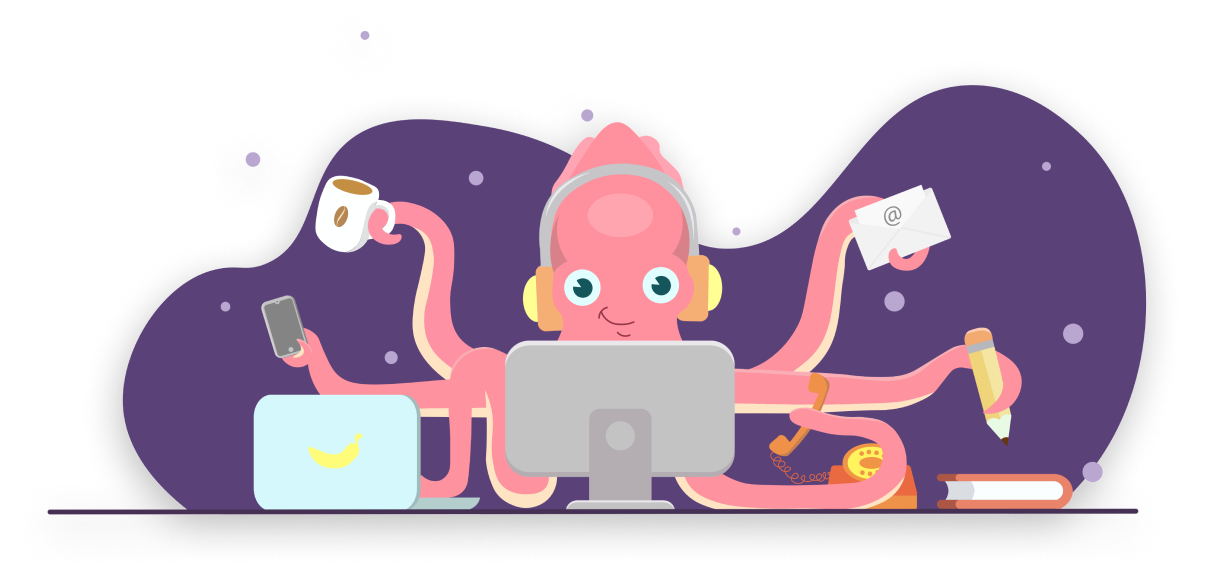
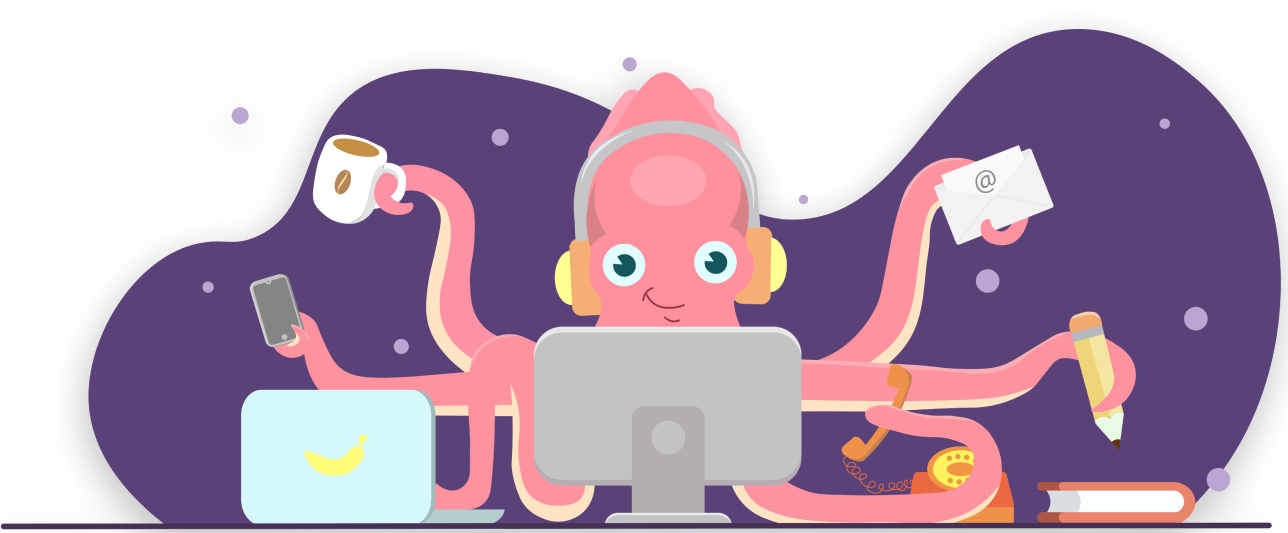
fix styles.css, octopus.css

diff --git a/styles/octopus.css b/styles/octopus.css
@@ -1,4 +1,6 @@
 .octopus {
+    height: 100vw;
+
     padding-top: 90px;
 
     background: 
@@ -12,8 +14,13 @@
 }
 
 .octopus__img {
-    width: 1310px;
-    height: 570px;
+    display: flex;
+    justify-content: center;
+    align-items: center;
+
+    width: 1280px;
+
+    margin-bottom: 14px;
 }
 
 .octopus__title {
@@ -27,8 +34,9 @@
     height: 72px;
 
     text-align: center;
-
     color: #F2F2F2;
+
+    margin-bottom: 68px;
 }
 
 .octopus__button {
@@ -37,7 +45,6 @@
     line-height: 42px;
 
     padding: 20px 59px;
-    margin-bottom: 83px;
 
     background-color: #D75C78;
     border-radius: 5px;
@@ -50,4 +57,16 @@
 
 .octopus__button:active {
     background-color: #C83E5D;
+}
+
+.octopus__bckg-group-bubls {
+    position: absolute;
+    right: 27px;
+    top: 821px;
+}
+
+.octopus__bckg-bubble {
+    position: absolute;
+    left: 128px;
+    top: 775px;
 }

diff --git a/index.html b/index.html
@@ -40,6 +40,20 @@
         </h3>
         <button type="button" class="octopus__button button">ПОДКЛЮЧИТЬ</button>
       </div>
+      <div class="octopus__bckg-group-bubls">
+        <img
+          src="./images/Group_bubls.png"
+          class="octopus__bckg-group"
+          alt="picture of bubbles"
+        />
+      </div>
+      <div class="octopus__bckg-bubble">
+        <img
+          src="./images/bubble.png"
+          class="octopus__bckg-bubles"
+          alt="picture of bubbles"
+        />
+      </div>
     </section>
   </body>
 </html>

diff --git a/styles/styles.css b/styles/styles.css
@@ -26,16 +26,25 @@ body {
 h1 {
     font-size: 64px;
     font-weight: 700;
+    line-height: 75px;
+
+    margin: 0;
 }
 
 h2 {
     font-size: 48px;
     font-weight: 700;
+    line-height: 64px;
+
+    margin: 0;
 }
 
 h3 {
     font-size: 24px;
     font-weight: 400;
+    line-height: 36px;
+
+    margin: 0;
 }
 
 button {
@@ -73,4 +82,8 @@ button {
 .button:active,
 .button-outline:active {
     color: #FFFFFF;
+}
+
+img {
+    width: 100%;
 }
